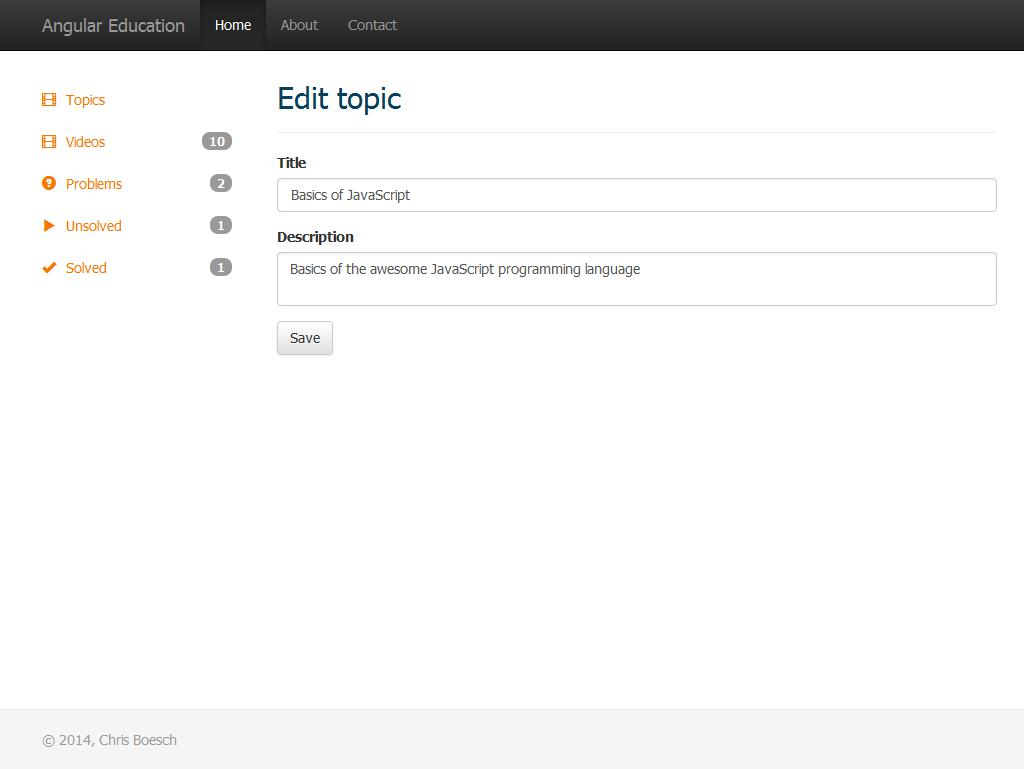
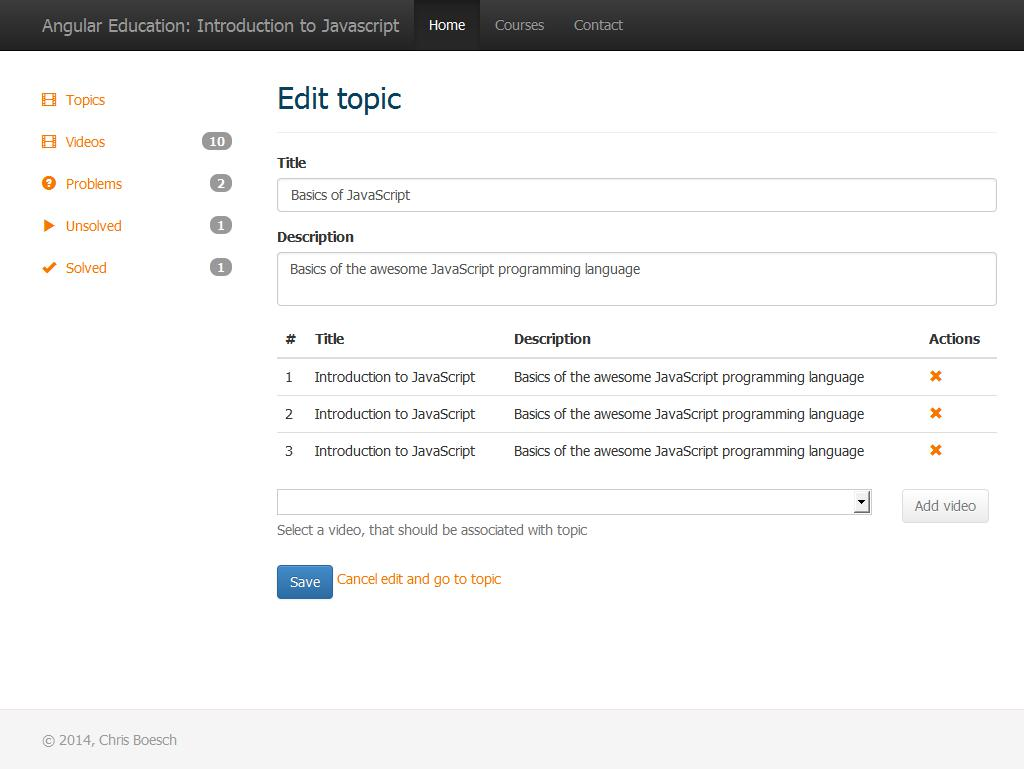
chore: Build and screenshots

diff --git a/app/assets/app.js b/app/assets/app.js
@@ -55087,13 +55087,15 @@ function setInnerText(element, text) {
       return res.save(newProblem).$promise;
     },
     solved: function getSolved(solved){
-      if(solved==undefined)
+      if(solved===undefined){
         solved = true;
+      }
       return res.query({solved:solved}).$promise.then(function (result) {
         return result.filter(function(problem){
-          if(!problem.solved&&!solved)
+          if(!problem.solved&&!solved){
             return true;
-          return problem.solved==solved;
+          }
+          return problem.solved===solved;
         });
       });
     }
@@ -55244,5 +55246,24 @@ function setInnerText(element, text) {
 
   $scope.save = function(topic){
     save(topic);
+  };
+});;angular
+.module('app.topics')
+.controller('VideoAssociationCtrl',function($scope,videos){
+  //TODO: should not show already added
+  videos.all().then(function(data){
+    $scope.list = data;
+  });
+
+  //todo: add back to available videos
+  $scope.removeVideo = function(topic,video){
+    topic.videos = topic.videos.filter(function(vid){
+      return vid.id!==video.id;
+    });
+  };
+  
+  //todo: remove added from list
+  $scope.addVideo = function(topic,video){
+    topic.videos.push(video);
   };
 });
